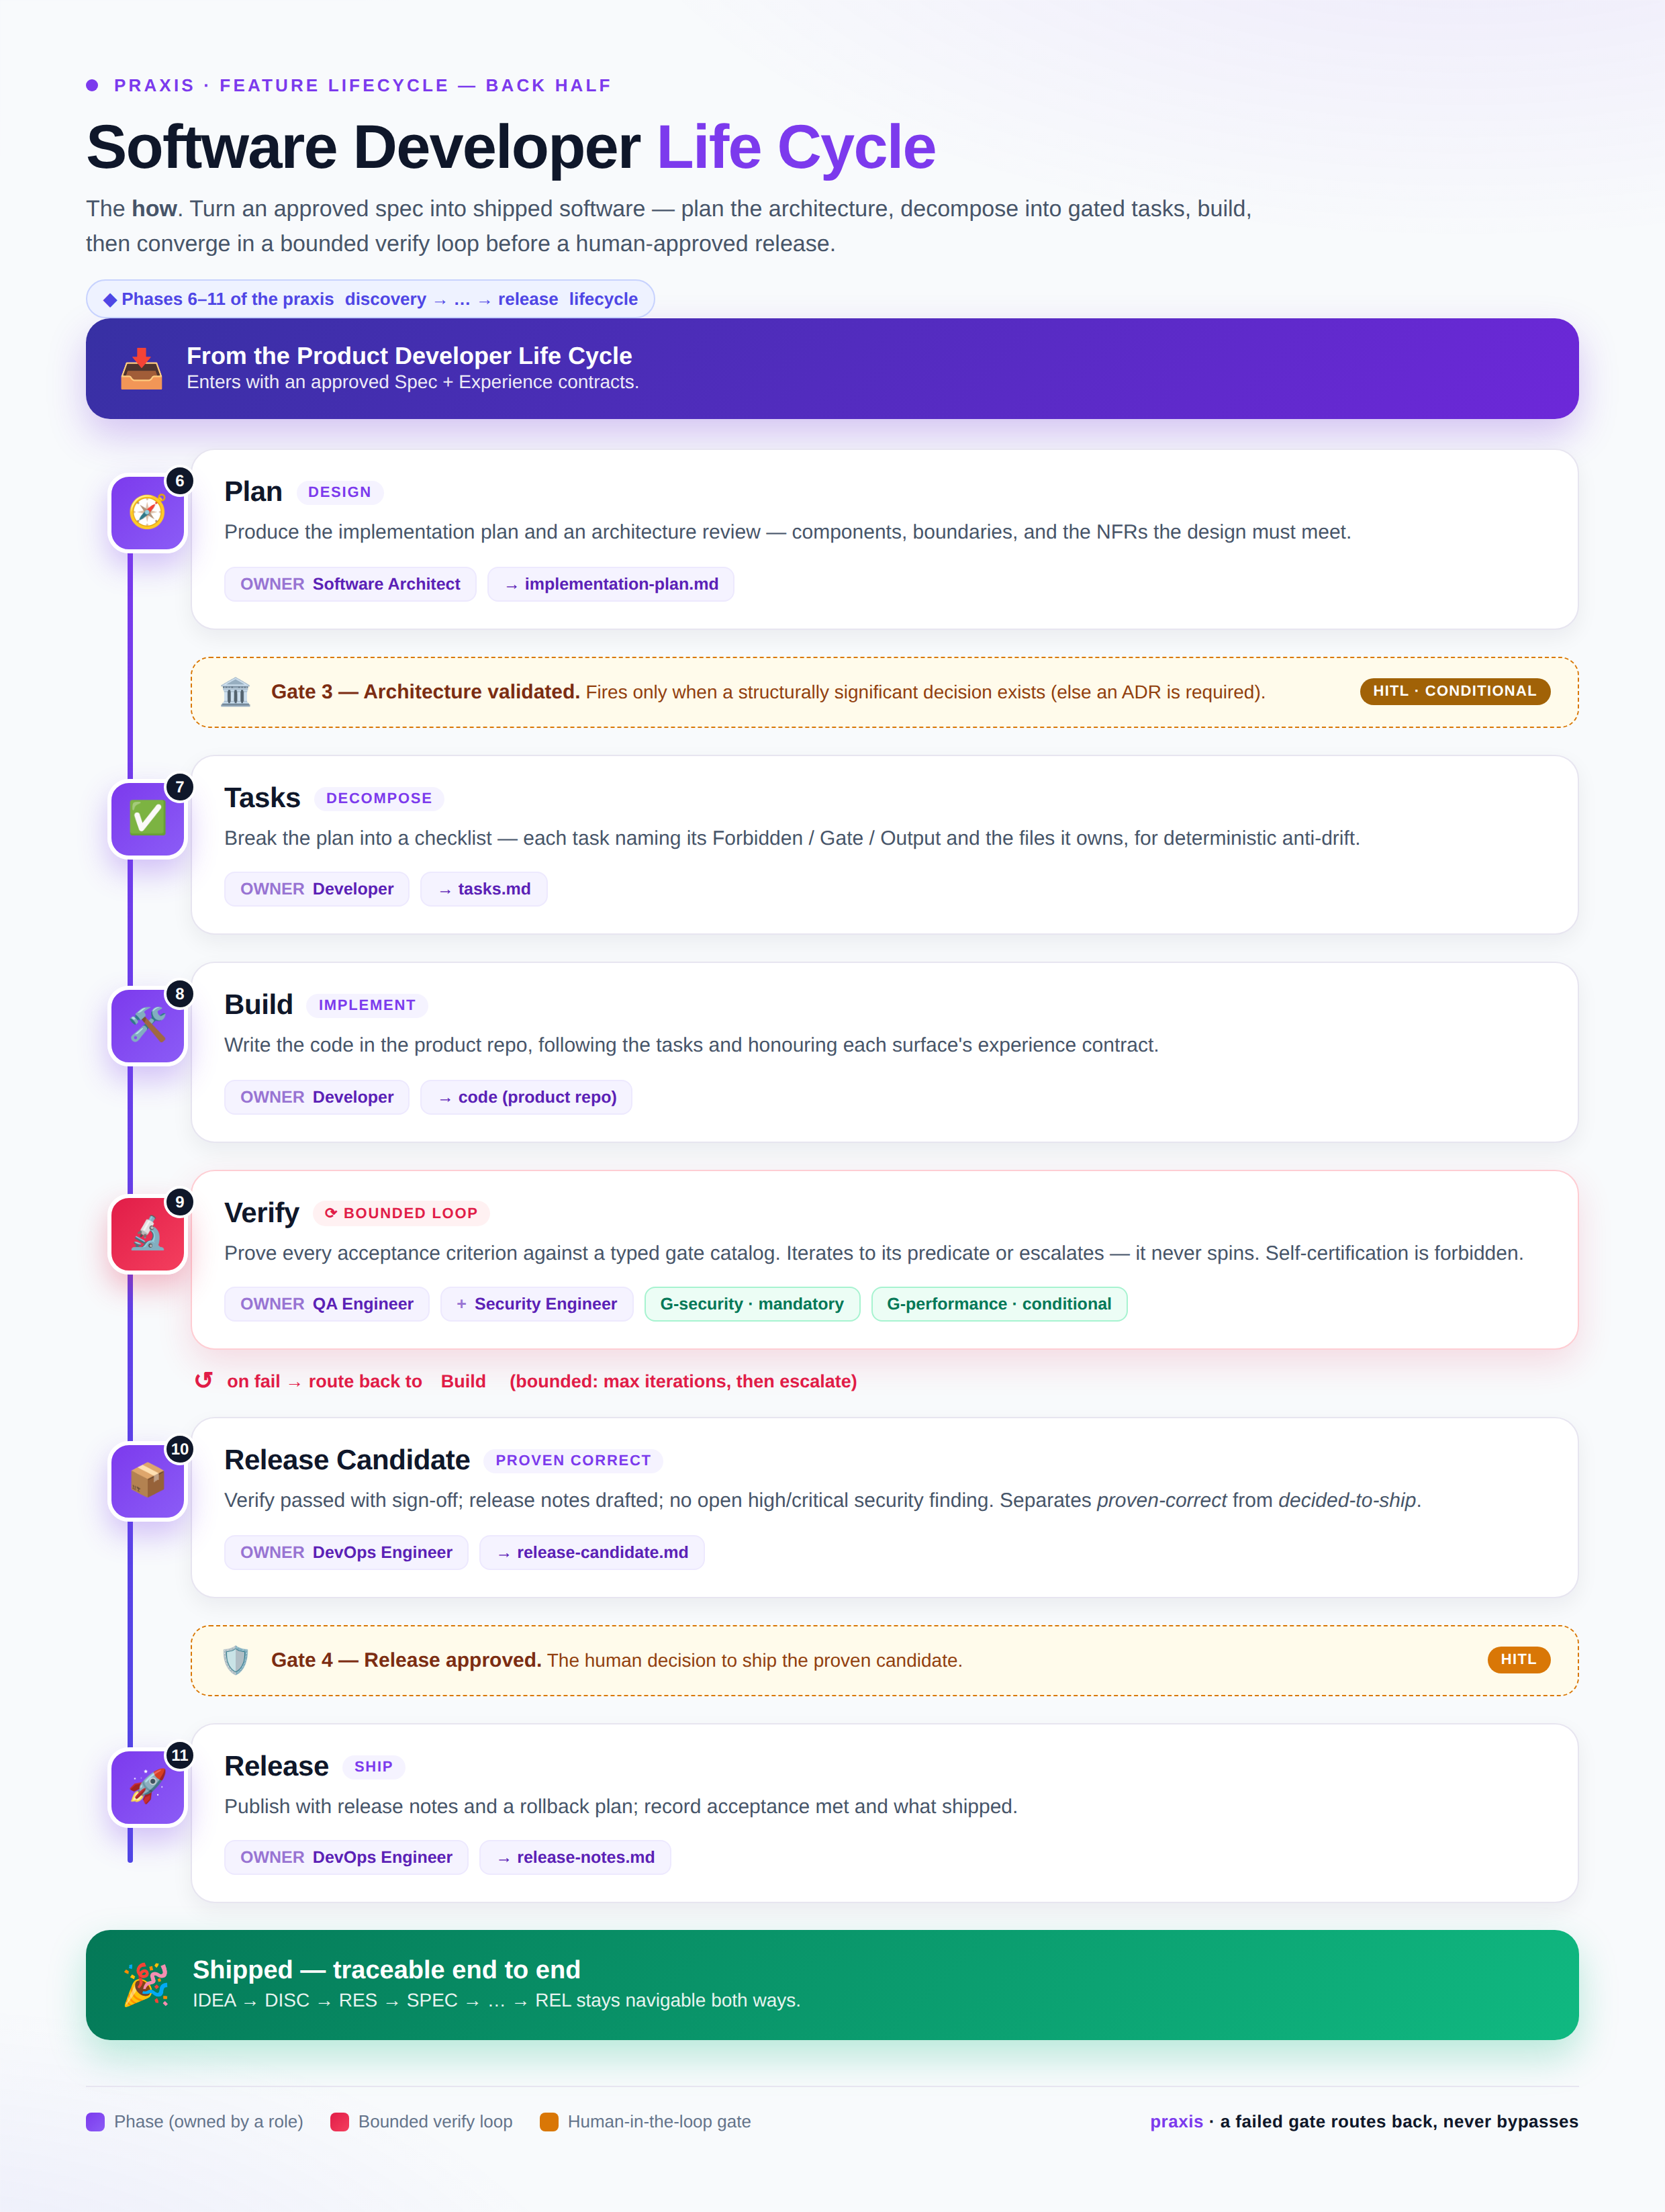
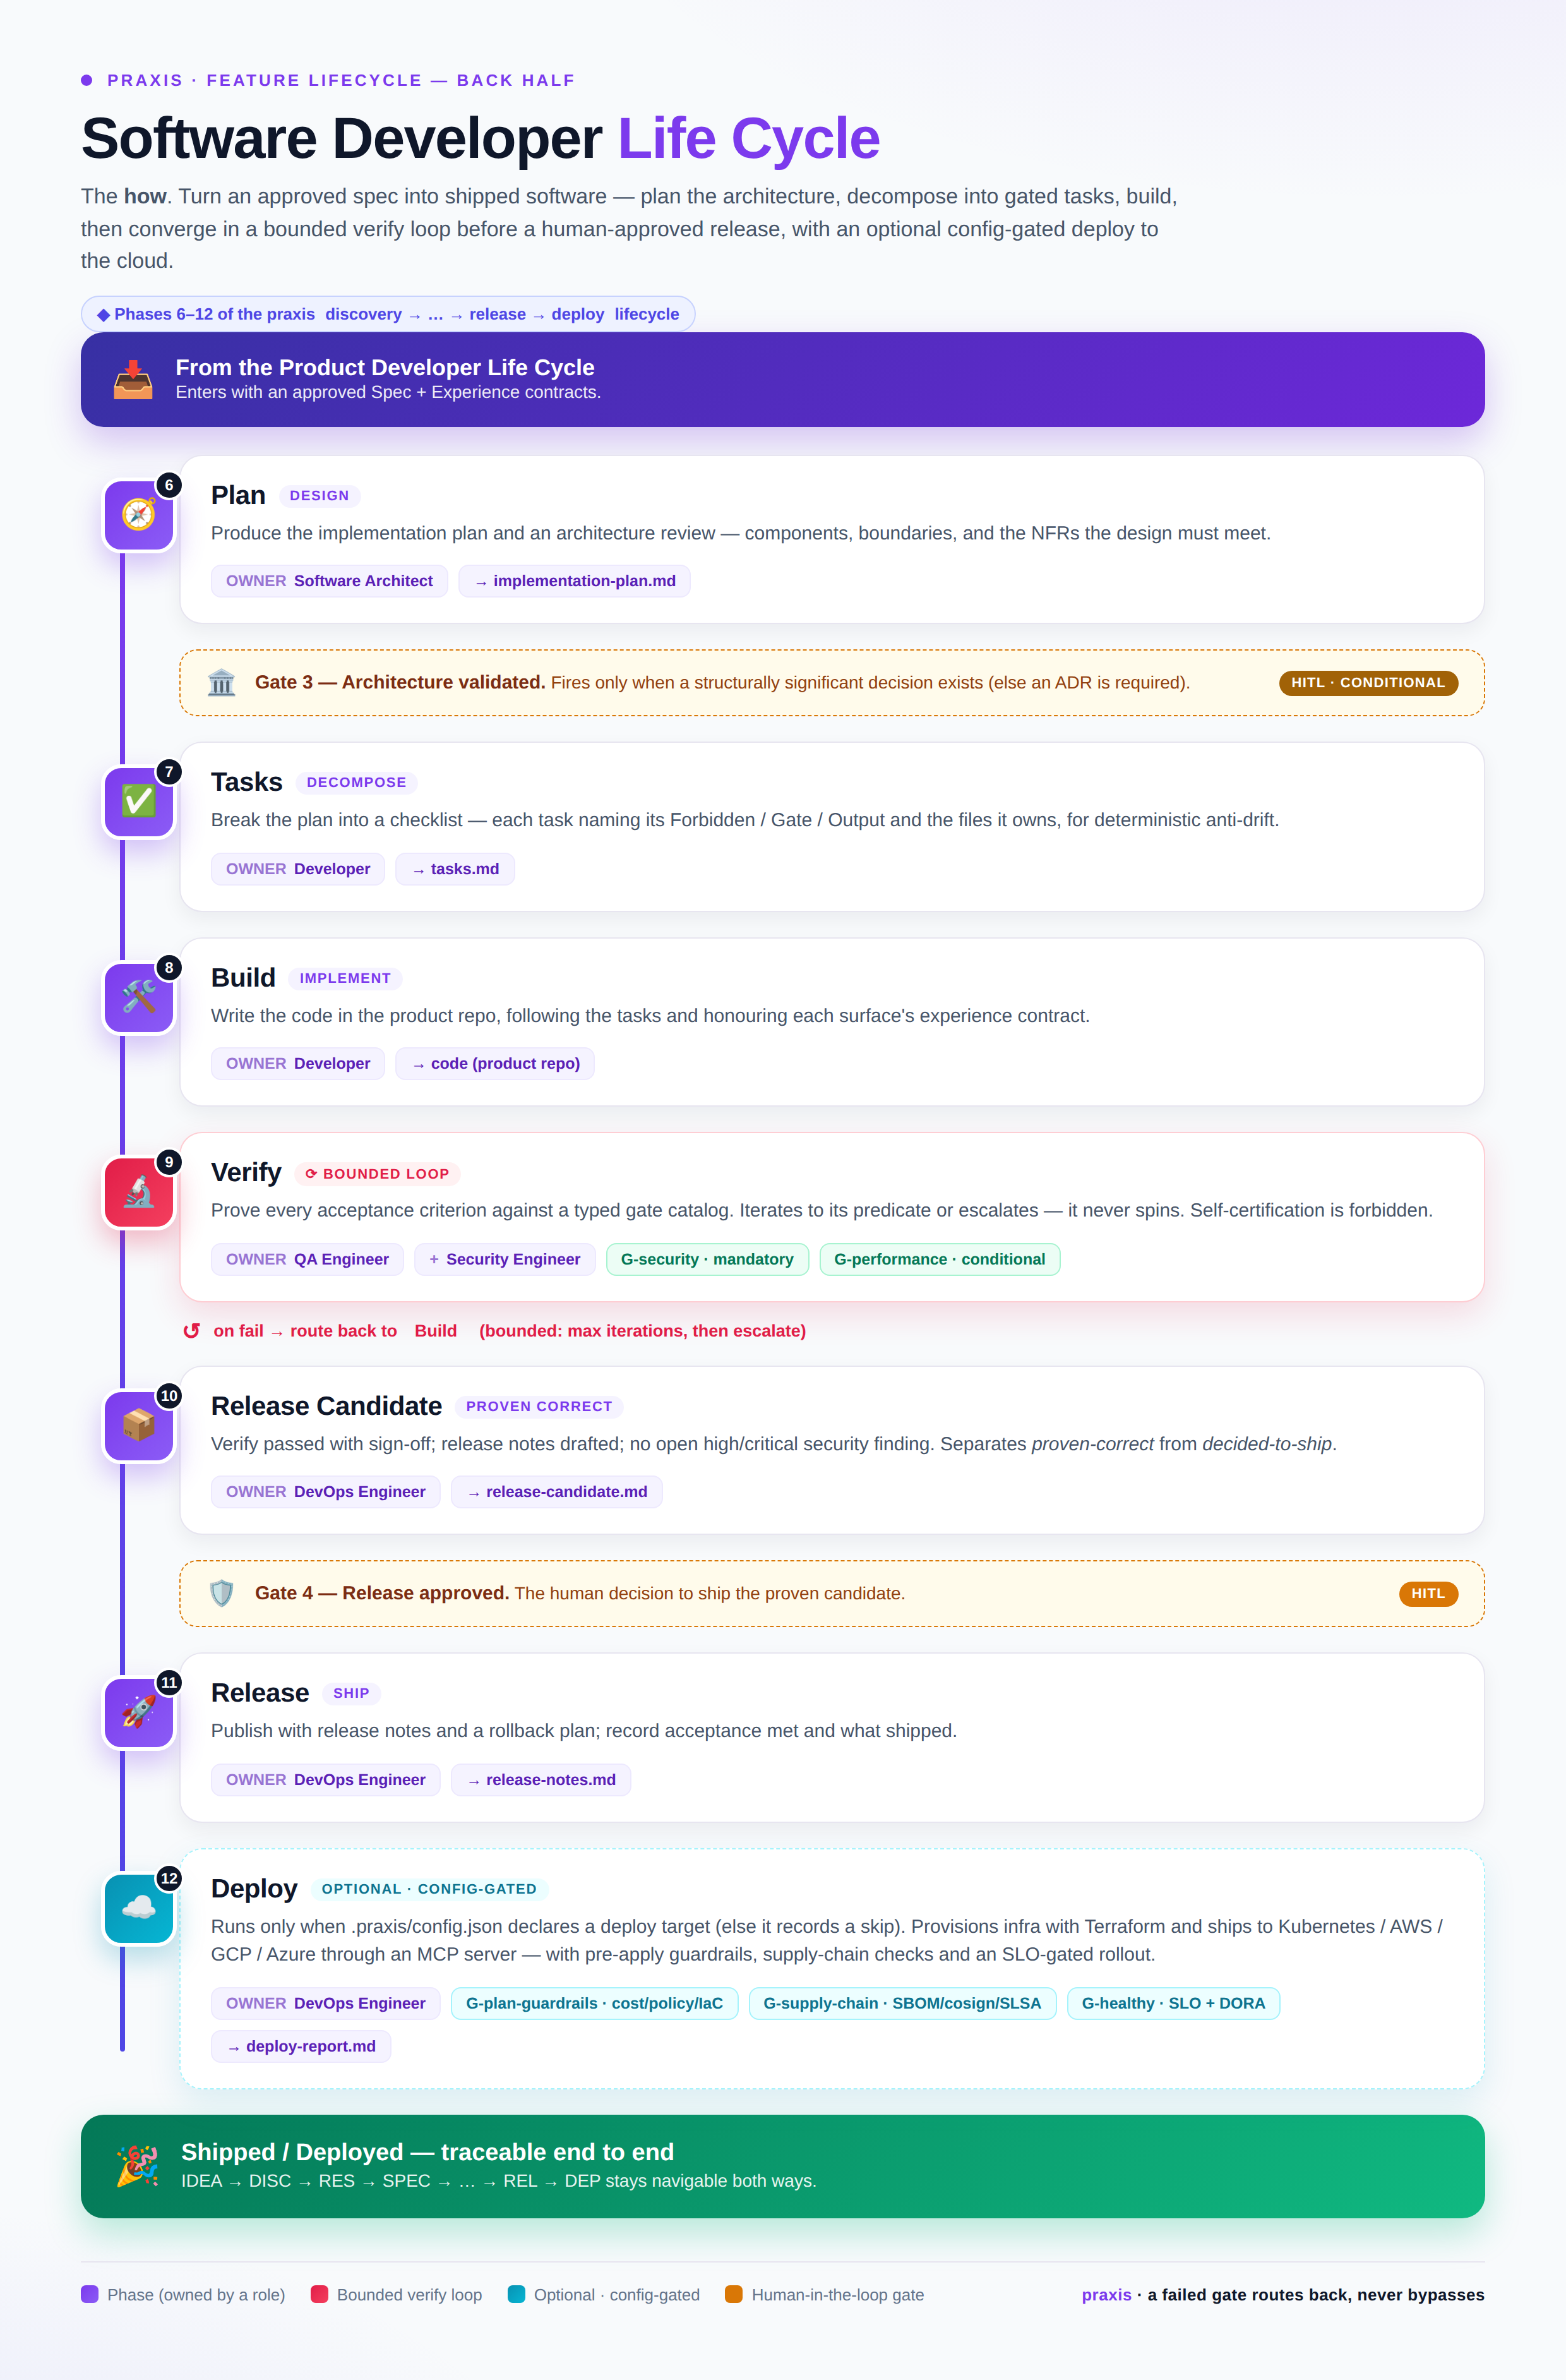
docs: reflect optional deploy phase in README, GitHub Pages, and lifecycle diagram
- README + docs/harness-mode.md: add '… → release → deploy' (optional, config-gated)
  to every lifecycle chain; extend the devops-engineer roster row
- docs/index.html: SDLC figure alt/figcaption, workflows list, new-feature example,
  and /devops blurb updated for the deploy phase
- software-developer-life-cycle.mmd + .infographic.html: add an optional Deploy (12)
  phase (cyan dashed style, gate chips, skip edge), and re-render the .png

Validation: validate-harness OK; no skill/command changed (catalog/integrations
unaffected).

Claude-Session: https://claude.ai/code/session_011ixYkzFM89pCMWZFseCN3U

diff --git a/docs/diagrams/software-developer-life-cycle.infographic.html b/docs/diagrams/software-developer-life-cycle.infographic.html
@@ -52,14 +52,18 @@
   .node .n{position:absolute;top:-9px;right:-9px;width:24px;height:24px;border-radius:50%;
     background:#0f172a;color:#fff;font-size:12px;display:grid;place-items:center;border:2px solid #fff}
   .node.loop{background:linear-gradient(135deg,#e11d48,#f43f5e);box-shadow:0 10px 22px rgba(225,29,72,.30)}
+  .node.opt{background:linear-gradient(135deg,#0891b2,#06b6d4);box-shadow:0 10px 22px rgba(8,145,178,.28)}
 
   .card{background:var(--card);border:1px solid var(--line);border-radius:18px;
     padding:20px 24px;box-shadow:0 6px 16px rgba(15,23,42,.06)}
   .card.loopcard{border-color:#fecdd3;box-shadow:0 10px 26px rgba(225,29,72,.14)}
+  .card.optcard{border-color:#a5f3fc;border-style:dashed;box-shadow:0 10px 26px rgba(8,145,178,.12)}
   .card h3{font-size:21px;letter-spacing:-.01em;display:flex;align-items:center;gap:10px}
   .tag{font-size:11px;font-weight:700;text-transform:uppercase;letter-spacing:.08em;
     padding:3px 9px;border-radius:999px;background:var(--c1s);color:var(--c1)}
   .tag.loop{background:var(--roses);color:var(--rose)}
+  .tag.opt{background:#ecfeff;color:#0e7490}
+  .chip.opt{background:#ecfeff;color:#0e7490;border-color:#a5f3fc}
   .card p{margin-top:7px;color:var(--muted);font-size:15px;line-height:1.5}
   .chips{margin-top:13px;display:flex;flex-wrap:wrap;gap:8px}
   .chip{font-size:12.5px;font-weight:600;color:var(--c1d);background:var(--c1s);
@@ -100,8 +104,8 @@
 <body>
   <div class="kicker"><span class="dot"></span> Praxis · Feature Lifecycle — Back Half</div>
   <h1>Software Developer <span class="accent">Life&nbsp;Cycle</span></h1>
-  <p class="sub">The <b>how</b>. Turn an approved spec into shipped software — plan the architecture, decompose into gated tasks, build, then converge in a bounded verify loop before a human-approved release.</p>
-  <div class="phase-of">◆ Phases 6–11 of the praxis <code style="font-family:inherit">discovery → … → release</code> lifecycle</div>
+  <p class="sub">The <b>how</b>. Turn an approved spec into shipped software — plan the architecture, decompose into gated tasks, build, then converge in a bounded verify loop before a human-approved release, with an optional config-gated deploy to the cloud.</p>
+  <div class="phase-of">◆ Phases 6–12 of the praxis <code style="font-family:inherit">discovery → … → release → deploy</code> lifecycle</div>
 
   <div class="intake">
     <span class="ho-ico">📥</span>
@@ -176,17 +180,27 @@
         <div class="chips"><span class="chip"><span class="role">OWNER</span>DevOps Engineer</span><span class="chip">→ release-notes.md</span></div>
       </div>
     </div>
+    <!-- 12 (optional) -->
+    <div class="row">
+      <div class="node opt"><span class="ico">☁️</span><span class="n">12</span></div>
+      <div class="card optcard">
+        <h3>Deploy <span class="tag opt">Optional · config-gated</span></h3>
+        <p>Runs only when <code style="font-family:inherit">.praxis/config.json</code> declares a deploy target (else it records a skip). Provisions infra with Terraform and ships to Kubernetes / AWS / GCP / Azure through an MCP server — with pre-apply guardrails, supply-chain checks and an SLO-gated rollout.</p>
+        <div class="chips"><span class="chip"><span class="role">OWNER</span>DevOps Engineer</span><span class="chip opt">G-plan-guardrails · cost/policy/IaC</span><span class="chip opt">G-supply-chain · SBOM/cosign/SLSA</span><span class="chip opt">G-healthy · SLO + DORA</span><span class="chip">→ deploy-report.md</span></div>
+      </div>
+    </div>
   </div>
 
   <div class="ship">
     <span class="ho-ico">🎉</span>
-    <div><b>Shipped — traceable end to end</b><small>IDEA → DISC → RES → SPEC → … → REL stays navigable both ways.</small></div>
+    <div><b>Shipped / Deployed — traceable end to end</b><small>IDEA → DISC → RES → SPEC → … → REL → DEP stays navigable both ways.</small></div>
   </div>
 
   <div class="footer">
     <div class="legend">
       <i><span class="sw" style="background:linear-gradient(135deg,#7c3aed,#8b5cf6)"></span>Phase (owned by a role)</i>
       <i><span class="sw" style="background:linear-gradient(135deg,#e11d48,#f43f5e)"></span>Bounded verify loop</i>
+      <i><span class="sw" style="background:linear-gradient(135deg,#0891b2,#06b6d4)"></span>Optional · config-gated</i>
       <i><span class="sw" style="background:#d97706"></span>Human-in-the-loop gate</i>
     </div>
     <div class="brand"><span class="px">praxis</span> · a failed gate routes back, never bypasses</div>

diff --git a/docs/index.html b/docs/index.html
@@ -218,7 +218,7 @@
           <article class="expert"><span class="cmd">/architect</span><h3>Software Architect</h3><p>System design, trade-offs, NFRs, ADRs, pattern selection and architecture review.</p></article>
           <article class="expert"><span class="cmd">/developer</span><h3>Developer</h3><p>Clean code, SOLID, TDD, error handling, safe refactoring and PR hygiene.</p></article>
           <article class="expert"><span class="cmd">/qa</span><h3>QA Engineer</h3><p>Test strategy and design, edge cases, bug reports and regression testing.</p></article>
-          <article class="expert"><span class="cmd">/devops</span><h3>DevOps Engineer</h3><p>CI/CD, IaC, containers/Kubernetes, deployments, observability/SLOs and incidents.</p></article>
+          <article class="expert"><span class="cmd">/devops</span><h3>DevOps Engineer</h3><p>CI/CD, IaC, containers/Kubernetes, deployments, observability/SLOs and incidents — plus an optional Terraform multi-cloud deploy phase via MCP.</p></article>
           <article class="expert"><span class="cmd">/security</span><h3>Security Engineer</h3><p>Threat modeling, OWASP Top 10, authn/authz, secrets, crypto and SAST/DAST/SCA gates.</p></article>
           <article class="expert"><span class="cmd">/security-architect</span><h3>Cybersecurity Architect</h3><p>Zero trust, IAM/SSO, segmentation, data protection, NIST/ISO/CIS and compliance.</p></article>
           <article class="expert"><span class="cmd">/ux</span><h3>UX/UI Engineer</h3><p>Design systems, tokens, visual and interaction design, WCAG 2.2 AA accessibility.</p></article>
@@ -358,7 +358,7 @@ landing-zone convention" — accept to apply.</code></pre>
             <div class="example-head">
               <span class="example-tag">End-to-end</span>
               <h3>Kick off a new feature</h3>
-              <p>Run an idea through the full lifecycle — discovery → research → spec → plan → tasks → build → verify → release. Each expert builds on the previous one's output; research precedes the spec and human-in-the-loop gates hold.</p>
+              <p>Run an idea through the full lifecycle — discovery → research → spec → plan → tasks → build → verify → release → deploy (optional). Each expert builds on the previous one's output; research precedes the spec and human-in-the-loop gates hold.</p>
             </div>
             <div class="code-panel">
               <div class="term-bar"><span class="dot red"></span><span class="dot yellow"></span><span class="dot green"></span><span class="term-title">/new-feature</span></div>
@@ -781,7 +781,7 @@ landing-zone convention" — accept to apply.</code></pre>
           <ul class="memory-list">
             <li><span class="state accepted">rules/</span> Source-of-truth authority order, stop conditions &amp; traceability.</li>
             <li><span class="state accepted">projects/</span> Per-project memory + durable <code>specs/</code>, <code>bugs/</code> &amp; <code>refinements/</code>.</li>
-            <li><span class="state pending">workflows/</span> Gated lifecycles: feature <code>discovery → research → product-definition → spec → experience → plan → tasks → build → verify → release-candidate → release</code>, plus <code>bug-fix</code> &amp; <code>refinement</code>.</li>
+            <li><span class="state pending">workflows/</span> Gated lifecycles: feature <code>discovery → research → product-definition → spec → experience → plan → tasks → build → verify → release-candidate → release → deploy</code> (deploy optional · config-gated), plus <code>bug-fix</code> &amp; <code>refinement</code>.</li>
             <li><span class="state accepted">validation-orchestrator</span> The standing authority that gates each step — five criteria-checked HITL gates + a typed verify catalog (mandatory <code>G-security</code>, conditional <code>G-performance</code>); verdict is <code>advance | block | escalate</code>.</li>
             <li><span class="state pending">.praxis/config.json</span> A repo points at a harness + project; agents resolve context deterministically.</li>
             <li><span class="state superseded">tools/</span> Mechanical <code>validate_harness.py</code> + <code>validate_traceability.py</code> + <code>install_adapter.py</code> + the <code>/patterns</code> miner — checked in CI.</li>
@@ -819,8 +819,8 @@ landing-zone convention" — accept to apply.</code></pre>
             <figcaption style="margin-top:14px;color:var(--text-muted);font-size:0.9rem;text-align:center;"><strong style="color:var(--text);">Product Developer Life Cycle</strong> — discovery → research → product&nbsp;definition → spec → experience. BA · PO · UX.</figcaption>
           </figure>
           <figure style="margin:0;background:#fff;border:1px solid var(--border);border-radius:12px;padding:20px;">
-            <img src="diagrams/software-developer-life-cycle.png" alt="Praxis Software Developer Life Cycle: Plan, Gate 3, Tasks, Build, Verify bounded loop, Release Candidate, Gate 4, Release — owned by Architect, Developer, QA, DevOps and Security." loading="lazy" style="display:block;width:100%;height:auto;" />
-            <figcaption style="margin-top:14px;color:var(--text-muted);font-size:0.9rem;text-align:center;"><strong style="color:var(--text);">Software Developer Life Cycle</strong> — plan → tasks → build → verify&nbsp;loop → release&nbsp;candidate → release. Architect · Dev · QA · DevOps · Security.</figcaption>
+            <img src="diagrams/software-developer-life-cycle.png" alt="Praxis Software Developer Life Cycle: Plan, Gate 3, Tasks, Build, Verify bounded loop, Release Candidate, Gate 4, Release, and an optional config-gated Deploy (Terraform multi-cloud via MCP) — owned by Architect, Developer, QA, DevOps and Security." loading="lazy" style="display:block;width:100%;height:auto;" />
+            <figcaption style="margin-top:14px;color:var(--text-muted);font-size:0.9rem;text-align:center;"><strong style="color:var(--text);">Software Developer Life Cycle</strong> — plan → tasks → build → verify&nbsp;loop → release&nbsp;candidate → release → <em>deploy&nbsp;(optional)</em>. Architect · Dev · QA · DevOps · Security.</figcaption>
           </figure>
         </div>
       </div>

diff --git a/.praxis/memory/entries/20260618-165933-3ed1.md b/.praxis/memory/entries/20260618-165933-3ed1.md
@@ -1,0 +1,21 @@
+---
+id: 20260618-165933-3ed1
+created: 2026-06-18T16:59:33Z
+updated: 2026-06-18T16:59:33Z
+source: /docs
+type: artifact
+status: accepted
+title: Docs + GitHub Pages + lifecycle image updated for the optional deploy phase
+tags: docs, readme, github-pages, diagram, deploy, lifecycle
+---
+
+Propagate the optional deploy phase into the public docs and the lifecycle diagram:
+
+- README.md: added `… → release → deploy` to every lifecycle chain (full-lifecycle intro, lifecycle-at-a-glance SDLC half, harness feature-lifecycle bullet + deploy-report.md artifact note, drive-a-lifecycle comment) and extended the devops-engineer roster row (Terraform multi-cloud via MCP).
+- docs/harness-mode.md: added deploy (optional, config-gated) to the four lifecycle-chain mentions.
+- docs/index.html (GitHub Pages): SDLC figure alt + figcaption now end at deploy (optional); workflows list and the new-feature example chain extended; /devops expert blurb mentions the optional Terraform multi-cloud deploy via MCP.
+- docs/diagrams/software-developer-life-cycle.mmd: added an optional Deploy (12) node after Release with a dashed cyan 'optional' class, an "if deploy target configured" edge, and a "no target → skip" dashed edge to a "Shipped / Deployed" exit.
+- docs/diagrams/software-developer-life-cycle.infographic.html: added the Deploy phase card (optional/config-gated styling, gate chips for plan-guardrails / supply-chain / SLO+DORA), legend entry, and updated kicker/sub/phase-of/ship text.
+- docs/diagrams/software-developer-life-cycle.png: re-rendered from the infographic via docs/diagrams/render.js (puppeteer + managed Chrome). product-developer png unchanged (deterministic re-render).
+
+Validation: make validate-harness OK. No skill/command changed, so catalog + integrations are unaffected. Source: 20260617-181841-b957.

diff --git a/docs/harness-mode.md b/docs/harness-mode.md
@@ -18,7 +18,8 @@ stop conditions, adapter config, and a deterministic validator — and the
 *delivery lifecycle* on top of it: machine-readable workflows with human-in-the-loop
 gates, durable typed artifacts, bidirectional traceability, and runtime state.
 The feature lifecycle runs `discovery → research → product-definition → spec →
-experience → plan → tasks → build → verify → release-candidate → release`, gated by
+experience → plan → tasks → build → verify → release-candidate → release → deploy`
+(the terminal `deploy` step optional and config-gated), gated by
 a **Validation Orchestrator**; lighter `bug-fix` and `refinement` lifecycles handle
 corrective and quality-only work. None of it is opt-in — it is always on, with a
 missing project auto-bootstrapped rather than treated as "no harness".
@@ -48,7 +49,7 @@ systems/
 
 workflows/
   registry.json          # the workflow registry
-  feature-development.workflow.json   # discovery → research → spec → plan → tasks → build → verify → release
+  feature-development.workflow.json   # discovery → research → spec → plan → tasks → build → verify → release → deploy
   bug-fix.workflow.json               # triage → reproduce → diagnose → fix → verify
   refinement.workflow.json            # assess → plan → change → verify
   *.workflow.json        # machine-readable steps + gates + stop conditions
@@ -206,7 +207,8 @@ validators.
   stop conditions, and validation commands. Each gate is opened by the previous
   artifact reaching an authorizing status, and **pending is not approval**.
   - `feature-development`: `discovery → research → product-definition → spec →
-    experience → plan → tasks → build → verify → release-candidate → release`, with
+    experience → plan → tasks → build → verify → release-candidate → release → deploy`
+    (the terminal `deploy` step optional and config-gated), with
     **five criteria-checked human-in-the-loop gates** — `approved-discovery`,
     `approved-product-definition`, `approved-spec`, `architecture-validated`
     (only when a significant decision exists), and `release-candidate-ready`. Each
@@ -345,7 +347,8 @@ The generated Cursor / Codex / IntelliJ entry docs include the same harness
 The harness conversion is in place: the authority model, project memory, adapter
 config + read-order wiring, the harness validator, the full `feature-development`
 lifecycle (discovery → research → product-definition → spec → experience → plan →
-tasks → build → verify → release-candidate → release) with five criteria-checked
+tasks → build → verify → release-candidate → release → deploy, the last optional)
+with five criteria-checked
 HITL gates and a Validation Orchestrator, a typed verify-gate catalog (mandatory
 `G-security`, conditional `G-performance`) with a failure protocol, the lighter
 `bug-fix` and `refinement` lifecycles (`/fix-bug`, `/refine`), bidirectional

diff --git a/README.md b/README.md
@@ -143,7 +143,7 @@ Each SDLC expert has a short slash command so you can address it directly with a
 
 Each command loads its matching skill and answers in that persona. You can also just describe what you want and Claude will load the right expert on its own. Command definitions live in [.claude/commands/](.claude/commands/).
 
-To run a feature through the **full lifecycle** — `discovery → research → spec → plan → tasks → build → verify → release`, driven by the core six (BA → PO → architect → developer → QA → devops), each building on the last — use `/new-feature <idea or PRD>`. It starts by *understanding* (discovery) and *investigating* (research, which must precede the spec), then produces one consolidated plan (requirements, prioritized increments, design decisions, implementation plan, test strategy, rollout, release notes), pausing at human-in-the-loop gates. Each phase runs in its own subagent, so an expert's doctrine loads in an isolated context and only its compact artifact returns to the main thread; prior artifacts are carried forward so context still flows across phases. After the architect phase it also **routes in the specialist experts a feature warrants** — ML/AI, data, security, frontend, or UX — as extra parallel phases, so an ML- or security-heavy feature gets its specialist automatically. Those experts also sit alongside the lifecycle for direct use (`/ml`, `/data`, `/security`, …), and `/review-changes` brings them in when a diff warrants it.
+To run a feature through the **full lifecycle** — `discovery → research → spec → plan → tasks → build → verify → release → deploy` (deploy optional, config-gated), driven by the core six (BA → PO → architect → developer → QA → devops), each building on the last — use `/new-feature <idea or PRD>`. It starts by *understanding* (discovery) and *investigating* (research, which must precede the spec), then produces one consolidated plan (requirements, prioritized increments, design decisions, implementation plan, test strategy, rollout, release notes), pausing at human-in-the-loop gates. Each phase runs in its own subagent, so an expert's doctrine loads in an isolated context and only its compact artifact returns to the main thread; prior artifacts are carried forward so context still flows across phases. After the architect phase it also **routes in the specialist experts a feature warrants** — ML/AI, data, security, frontend, or UX — as extra parallel phases, so an ML- or security-heavy feature gets its specialist automatically. Those experts also sit alongside the lifecycle for direct use (`/ml`, `/data`, `/security`, …), and `/review-changes` brings them in when a diff warrants it.
 
 Not every change is a greenfield feature. For a defect, `/fix-bug <bug>` runs the **corrective** lifecycle — `triage → reproduce → diagnose → fix → verify` — to produce a minimal, regression-tested fix without the discovery/research/spec ceremony. For internal quality work, `/refine <target>` runs the **behavior-preserving** lifecycle — `assess → plan → change → verify` — to refactor, pay down debt, or improve performance while keeping observable behavior unchanged. Both are orchestrated the same way as `/new-feature`, just lighter.
 
@@ -193,7 +193,7 @@ Each makes Claude act as that role's expert, with practices and a review checkli
 | `software-architect` | Software Architect | NFRs, ADRs, trade-offs, C4 model, pattern selection, risk, avoiding over-engineering. |
 | `developer` | Developer | Clean code, TDD/test pyramid, commit & PR hygiene, safe refactoring, security basics, review etiquette. |
 | `qa-engineer` | QA Engineer | Test strategy, test-design techniques, bug reports, risk-based & regression testing, release readiness. |
-| `devops-engineer` | DevOps Engineer | CI/CD, IaC, containers/K8s, deployment strategies, observability/SLOs, incident response, DORA. |
+| `devops-engineer` | DevOps Engineer | CI/CD, IaC, containers/K8s, deployment strategies, observability/SLOs, incident response, DORA, plus an optional Terraform multi-cloud deploy phase (K8s/AWS/GCP/Azure) via MCP. |
 | `security-engineer` | Security Engineer | Threat modeling (STRIDE), OWASP Top 10, authn/authz, secrets, crypto, SAST/DAST/SCA, supply chain, CVSS triage. |
 | `cybersecurity-architect` | Cybersecurity Architect | Zero trust, defense in depth, IAM/identity, segmentation, data protection, key management, NIST/ISO/CIS, compliance, risk. |
 | `ux-ui-engineer` | UX/UI Engineer | Design systems & tokens, visual & interaction design, accessibility (WCAG 2.2 AA), responsive layout, usability heuristics, UX writing, design handoff. |
@@ -227,7 +227,7 @@ Praxis began as a **skill factory + SDLC expert pack + memory ledger**. Harness 
 
 ### The lifecycle at a glance
 
-Praxis splits its full feature lifecycle into two halves — a **Product Developer Life Cycle** (the *what & why*: discovery → research → product definition → spec → experience) and a **Software Developer Life Cycle** (the *how*: plan → tasks → build → verify → release). Each phase is owned by a role and every gate is human-in-the-loop.
+Praxis splits its full feature lifecycle into two halves — a **Product Developer Life Cycle** (the *what & why*: discovery → research → product definition → spec → experience) and a **Software Developer Life Cycle** (the *how*: plan → tasks → build → verify → release → deploy). Each phase is owned by a role and every gate is human-in-the-loop. The final **deploy** phase is optional and config-gated: it runs only when `.praxis/config.json` declares a deploy target.
 
 <table>
 <tr>
@@ -279,7 +279,7 @@ python tools/validate_harness.py --config ../checkout/.praxis/config.json
 
 **What harness mode now includes** (always on — a missing project is auto-bootstrapped, never a fallback):
 
-- **The full feature lifecycle.** In harness mode, `/new-feature` runs `discovery → research → product-definition → spec → experience → plan → tasks → build → verify → release-candidate → release` and writes the durable, typed artifacts under `projects/<project>/specs/<spec>/` — `discovery/`, `research/` (report + evidence log + alternatives), the PO-owned `product-definition` (MVP/scope/metrics), `spec.md`, optional `experience/` contracts, `plans/implementation-plan.md`, `tasks/tasks.md`, `decisions/`, `reports/verify/`, and `reports/release/` (with `release-candidate` separating *proven-correct* from *decided-to-ship*) — instead of leaving the plan only in chat. **Research precedes the spec.** Doctrine: [`systems/feature-development/artifact-model.md`](systems/feature-development/artifact-model.md).
+- **The full feature lifecycle.** In harness mode, `/new-feature` runs `discovery → research → product-definition → spec → experience → plan → tasks → build → verify → release-candidate → release → deploy` and writes the durable, typed artifacts under `projects/<project>/specs/<spec>/` — `discovery/`, `research/` (report + evidence log + alternatives), the PO-owned `product-definition` (MVP/scope/metrics), `spec.md`, optional `experience/` contracts, `plans/implementation-plan.md`, `tasks/tasks.md`, `decisions/`, `reports/verify/`, and `reports/release/` (with `release-candidate` separating *proven-correct* from *decided-to-ship*, and an optional `deploy-report.md`) — instead of leaving the plan only in chat. **Research precedes the spec.** The terminal **`deploy` step is optional and config-gated** — Terraform + multi-cloud (K8s/AWS/GCP/Azure) via MCP, with pre-apply guardrails, supply-chain checks and an SLO-gated rollout; with no declared target it records a skip. Doctrine: [`systems/feature-development/artifact-model.md`](systems/feature-development/artifact-model.md) and [`.claude/skills/devops-engineer/references/deploy.md`](.claude/skills/devops-engineer/references/deploy.md).
 - **Executable surface contracts + typed gates.** The optional `experience` step turns each surface a spec declares (screen/flow/api/job/cli/data/integration) into a verifiable contract — markdown + a companion JSON validated against [`schemas/experience-contract.schema.json`](schemas/experience-contract.schema.json) — that names its source of truth, files-owned, dependency map, and the `G-*` gates that prove it. The workflow's `gateCatalog` defines those gates; the verify report records a pass/fail result per gate with reviewer sign-off and **forbids self-certification**. Tasks carry per-task **Forbidden / Gate / Output** fields + files-owned for deterministic anti-drift (lint: `make check-tasks FILE=…`).
 - **Never assume; loop, don't spin; hard stops.** Three complementary controls keep work honest: the **assumptions ledger** ([`rules/never-assume.md`](rules/never-assume.md), `tools/assumptions.py`) logs low-confidence guesses and replays them to you as a question-flow; **loop control** ([`rules/loop-control.md`](rules/loop-control.md), `tools/loop.py`) runs the `verify` step as a bounded convergence loop that either meets its predicate or escalates — never spins; and an enumerated **stop-conditions catalog** ([`rules/stop-conditions-catalog.md`](rules/stop-conditions-catalog.md)) of `U/P/S-*` hard blockers halts the step and writes a run log.
 - **A learning loop.** A validated assumption that generalises can be promoted — via [`tools/promote.py`](tools/promote.py), routed through `skill-learner` — into a **`pending`** rule, gate, eval, or guardrail in the memory ledger. Promote on evidence, never on anticipation; propose, never mutate; the user accepts before any governance is added.
@@ -306,7 +306,7 @@ python tools/install_adapter.py --target ../checkout --project checkout --mode l
 #    writes ../checkout/.praxis/config.json + current-spec.md
 
 # 3. Drive a lifecycle — from inside the repo that has .praxis/config.json
-#    /new-feature "<idea>"   → writes projects/checkout/specs/<slug>/ (discovery → … → release)
+#    /new-feature "<idea>"   → writes projects/checkout/specs/<slug>/ (discovery → … → release → deploy)
 #    /fix-bug "<bug>"        → writes projects/checkout/bugs/<id>/
 #    /refine "<target>"      → writes projects/checkout/refinements/<id>/
 